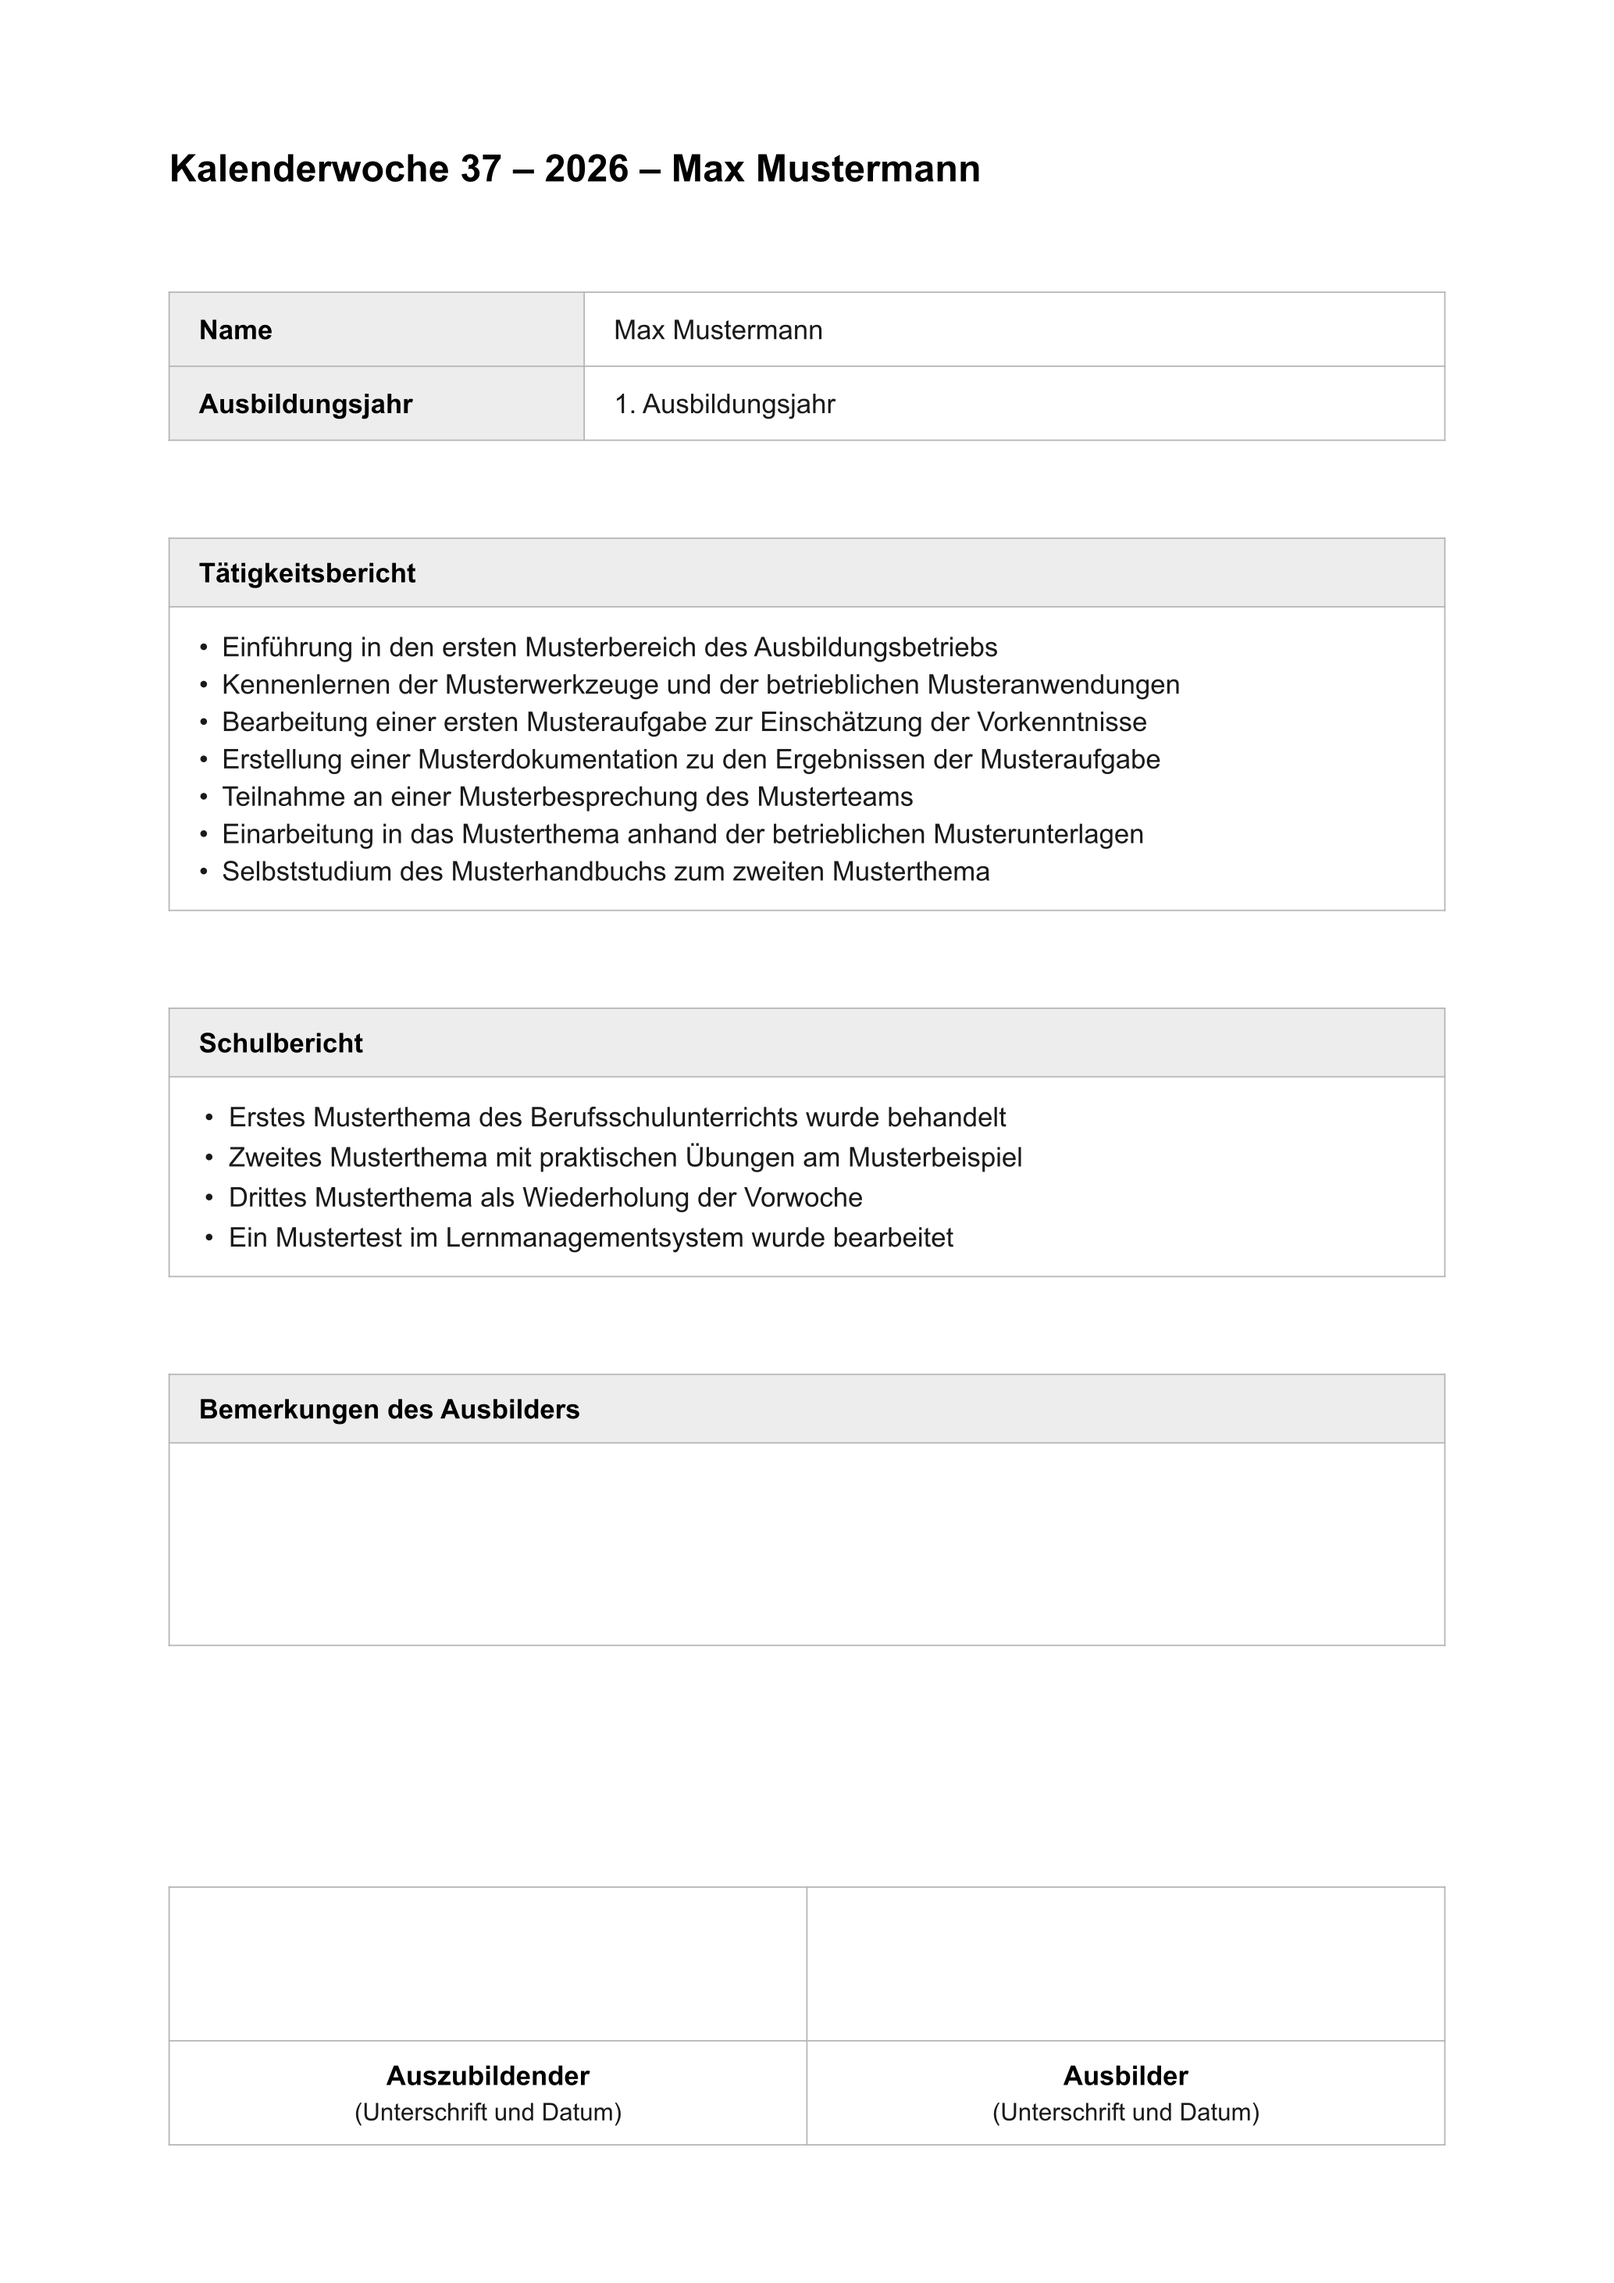
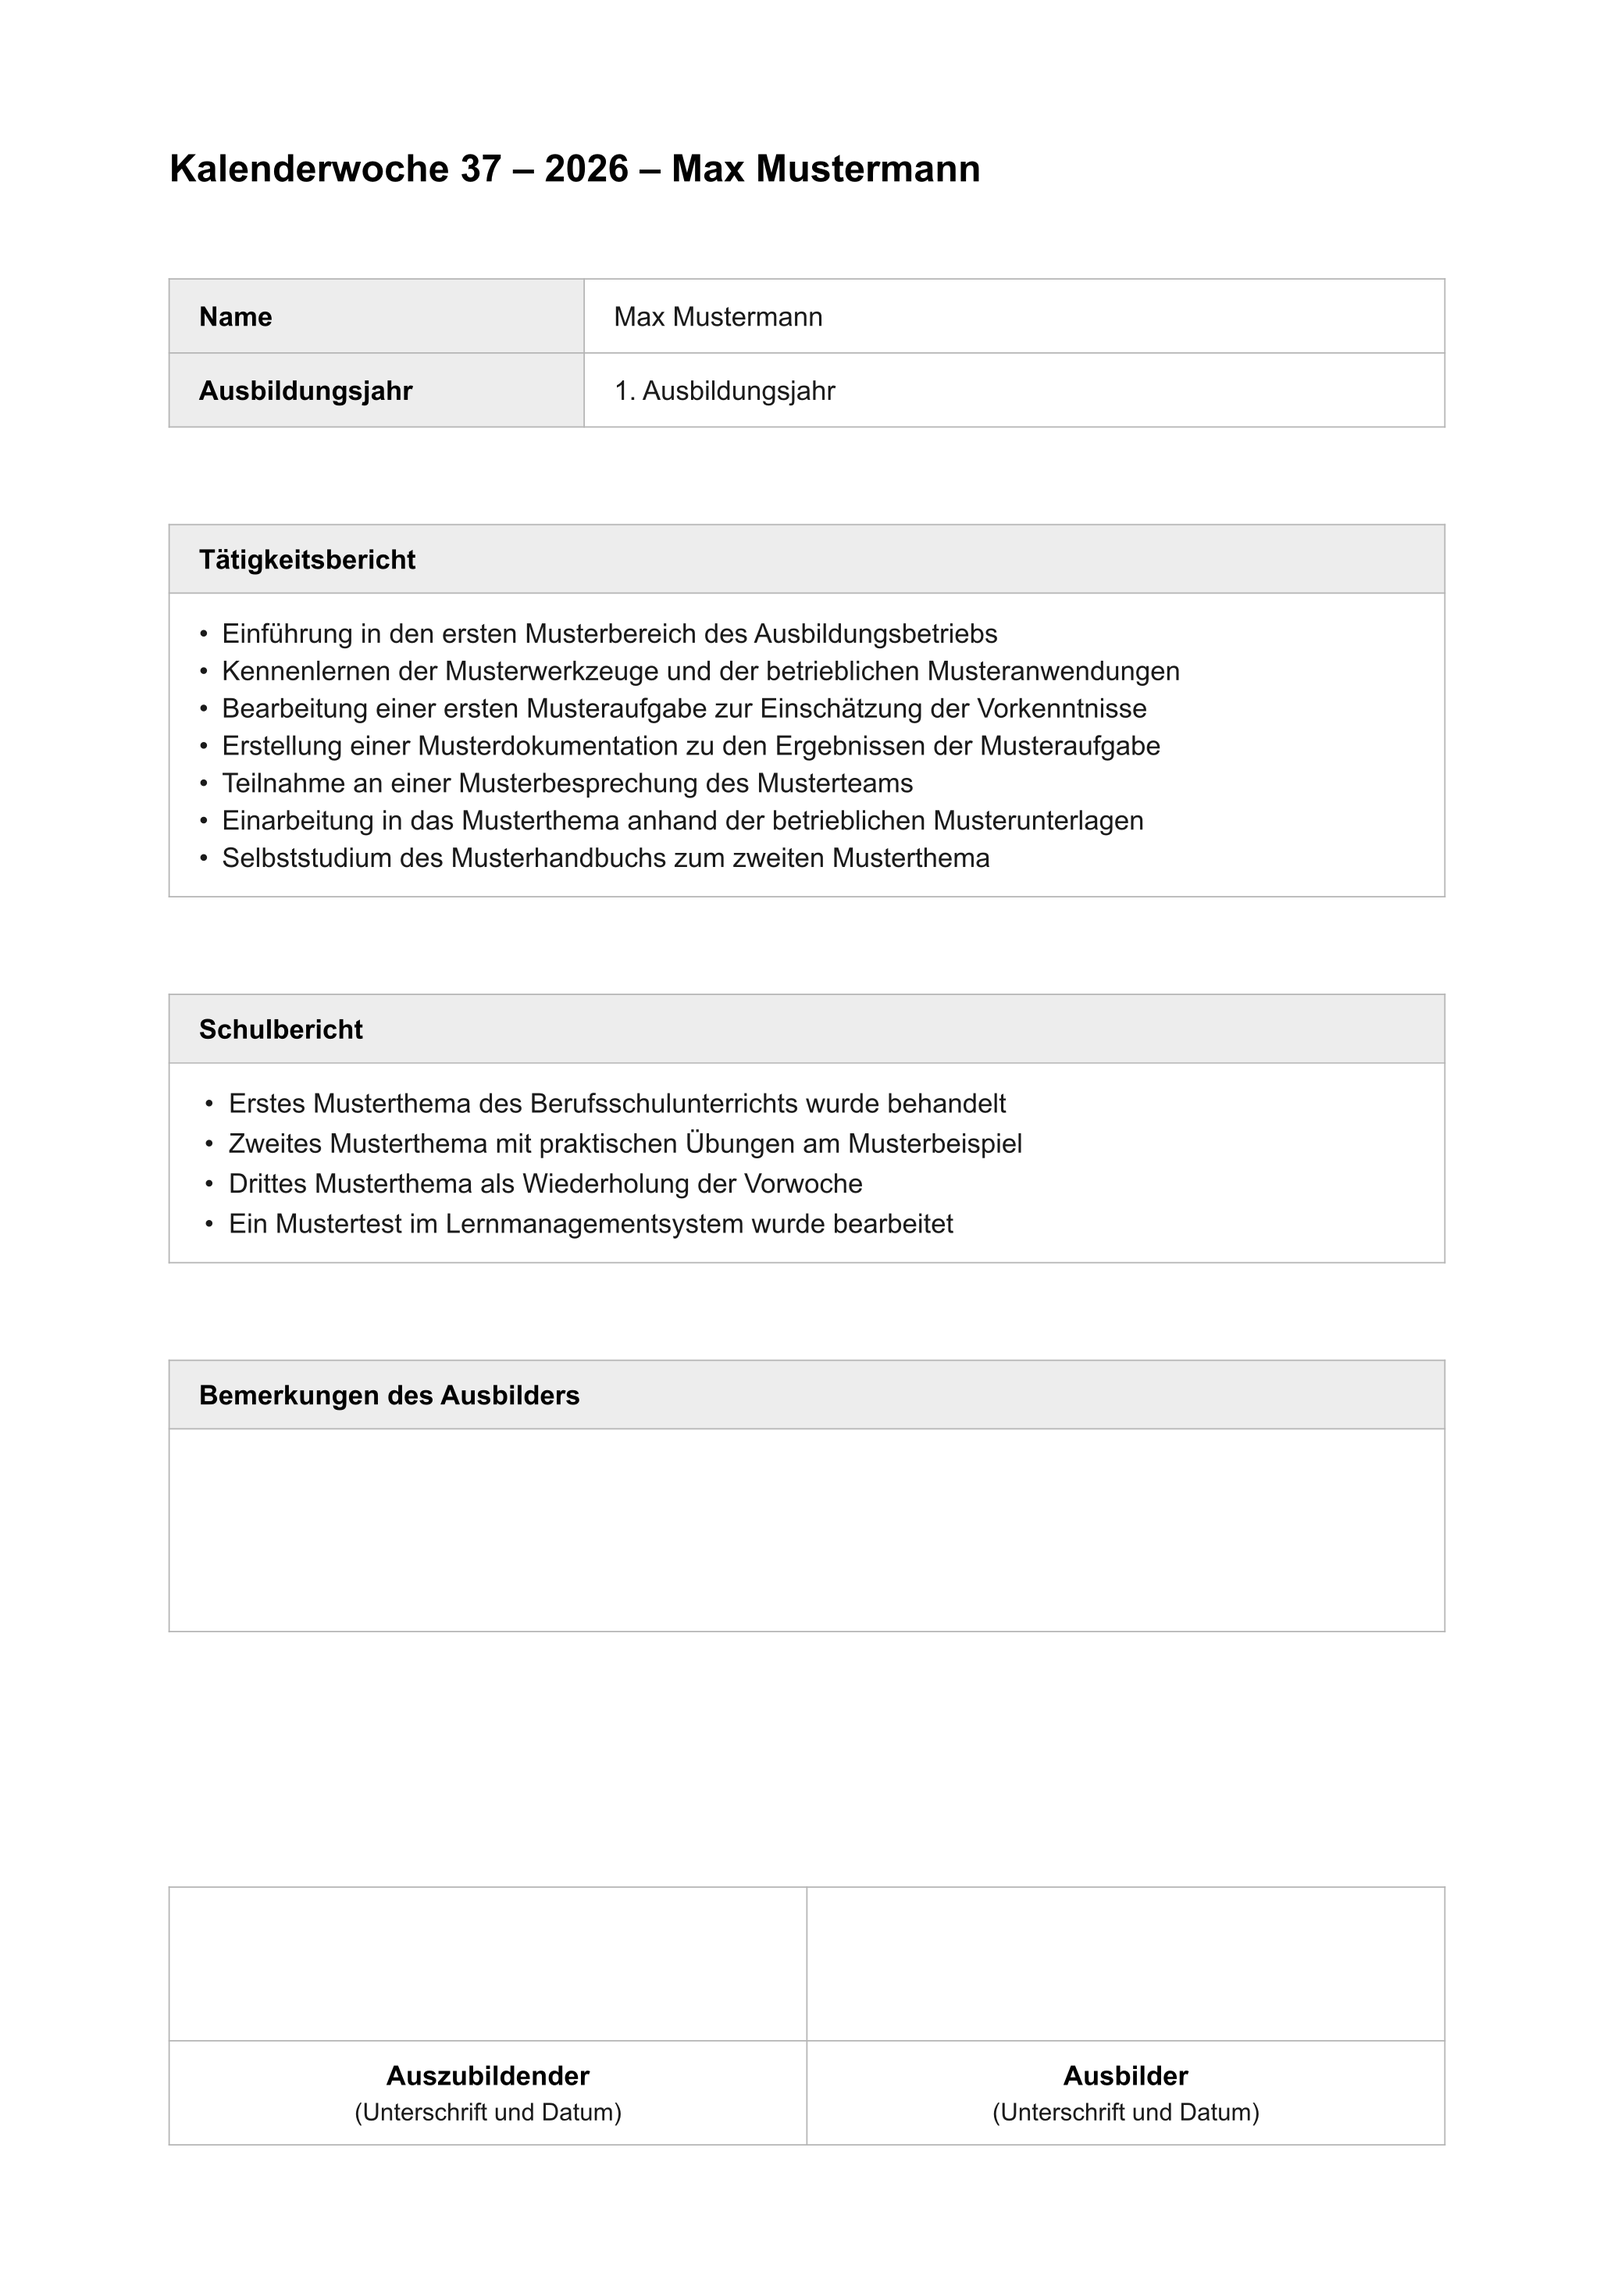
Make luft the distance it says it is, so every gap matches
Typst adds its own spacing between blocks on top of an explicit v(), so
a gap between two sections came out as luft plus 1.2em of the body size,
while the gap above the signatures — where the 1fr swallows that
spacing — came out as bare luft. Fitting made the difference plain: 47px
between sections against 29px before the signature block, which read as
the block being glued on. The gap under the title was a third value
again, 1.2em of the title size rather than of the body.

Turn the automatic spacing off, leaving the explicit v(luft) as the only
vertical spacing in the sheet. Every gap is now exactly luft, including
the one above the signatures and the one under the title.

luft therefore means something different than it did: 0.85cm used to
render as 1.27cm. The default moves to 1.27cm so a sheet laid out with
defaults looks as it did, luft-min to 0.8cm to match the old effective
minimum of 0.87cm, and the two examples that pass luft are restated in
the new terms. Section boxes are untouched — only the spacing between
them is.

diff --git a/README.de.md b/README.de.md
@@ -222,7 +222,7 @@ Inhaltsblöcke](#abschnitte-als-inhaltsbl%C3%B6cke).
 | `kopftext` | Schriftfarbe der Kopfzellen | `#000000` |
 | `fliess` | Schriftfarbe des Fließtexts | `#1a1a1a` |
 | `rahmen` | Rahmenstärke | `0.5pt` |
-| `luft` | Abstand zwischen den Abschnitten | `0.85cm` |
+| `luft` | Abstand zwischen den Blöcken des Nachweises — der Satz fügt von sich aus keinen weiteren hinzu, es ist also genau dieser Abstand | `1.27cm` |
 | `polster` | Innenabstand der Zellen | `11pt` |
 | `mindesthoehe` | Höhe leerer Abschnitte (Schreibfläche) | `2cm` |
 | `rand` | Seitenränder | `(x: 2.2cm, top: 2cm, bottom: 1.8cm)` |
@@ -243,7 +243,7 @@ zweites Blatt.
 | Parameter | Bedeutung | Standard |
 | --- | --- | --- |
 | `anpassen` | verkleinert so weit nötig, um auf einer Seite zu bleiben | `true` |
-| `luft-min` | Untergrenze für `luft` | `0.45cm` |
+| `luft-min` | Untergrenze für `luft` | `0.8cm` |
 | `mindesthoehe-min` | Untergrenze für `mindesthoehe` | `1.2cm` |
 | `unterschrifthoehe-min` | Untergrenze für `unterschrifthoehe` | `1.4cm` |
 
@@ -356,7 +356,7 @@ selbst setzen möchten und `anpassen: false` gewählt haben.
 In dieser Reihenfolge nachjustieren:
 
 1. `kopfspalten: 2` — halbiert die Höhe der Kopfdatentabelle
-2. `luft: 0.6cm` — engere Abstände zwischen den Abschnitten
+2. `luft: 1cm` — engere Abstände zwischen den Abschnitten
 3. `mindesthoehe: 1.5cm` und `unterschrifthoehe: 1.5cm` — kleinere Schreibflächen
 4. `schriftgroesse: 9.5pt`
 

diff --git a/README.md b/README.md
@@ -234,7 +234,7 @@ blocks](#sections-as-content-blocks).
 | `kopftext` | text colour of the header cells | `#000000` |
 | `fliess` | body text colour (*Fließtext*) | `#1a1a1a` |
 | `rahmen` | border thickness (*Rahmen*) | `0.5pt` |
-| `luft` | vertical spacing between sections (*Luft*) | `0.85cm` |
+| `luft` | gap between the blocks of the sheet (*Luft*) — the sheet adds no spacing of its own, so this is the distance you get | `1.27cm` |
 | `polster` | cell padding (*Polster*) | `11pt` |
 | `mindesthoehe` | height of empty sections (*Mindesthöhe*), i.e. the writing area | `2cm` |
 | `rand` | page margins (*Rand*) | `(x: 2.2cm, top: 2cm, bottom: 1.8cm)` |
@@ -254,7 +254,7 @@ than a second sheet.
 | Parameter | Meaning | Default |
 | --- | --- | --- |
 | `anpassen` | shrink as needed to stay on one page (*Anpassung*) | `true` |
-| `luft-min` | floor for `luft` | `0.45cm` |
+| `luft-min` | floor for `luft` | `0.8cm` |
 | `mindesthoehe-min` | floor for `mindesthoehe` | `1.2cm` |
 | `unterschrifthoehe-min` | floor for `unterschrifthoehe` | `1.4cm` |
 
@@ -392,7 +392,7 @@ enough — or when you would rather place everything yourself and have set
 Adjust in this order:
 
 1. `kopfspalten: 2` — halves the height of the header table
-2. `luft: 0.6cm` — tighter spacing between sections
+2. `luft: 1cm` — tighter spacing between sections
 3. `mindesthoehe: 1.5cm` and `unterschrifthoehe: 1.5cm` — smaller writing areas
 4. `schriftgroesse: 9.5pt`
 
